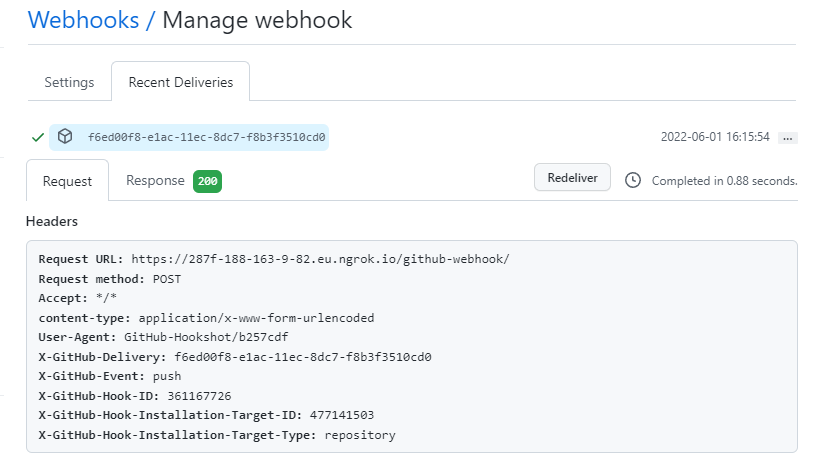
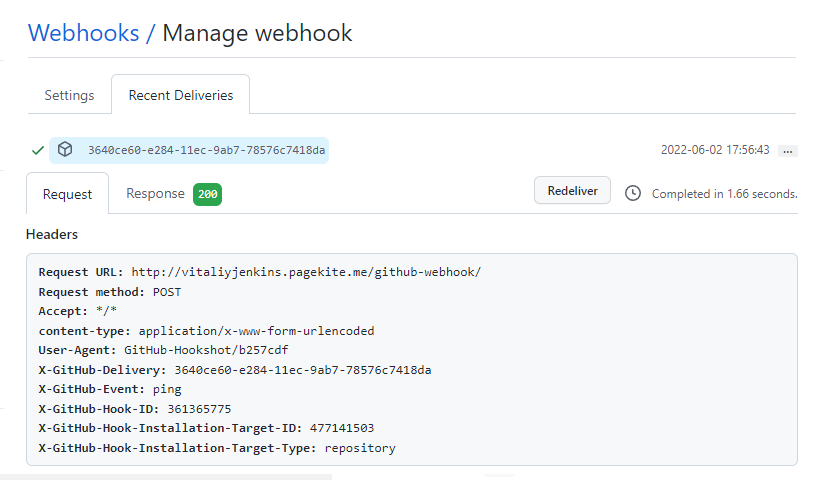
feature/pagekite used instead of ngrok

diff --git a/Readme.md b/Readme.md
@@ -1,10 +1,9 @@
 ## Jenkins pipeline running terraform infra
 
 **Installed Jenkins in WSL2 locally, also port forwarded to the
-host machine and exposed to the internet using `ngrok` tool**
-> Note: ngrok doesn't provide static ip address
+host machine and exposed to the internet using `pagekite` tool with free trial**
 
-![](screenshots/jenkins_running.png)
+![](screenshots/pagekite.png)
 
 **Next, moved to jenkins bash and generated deploy keys**
 
